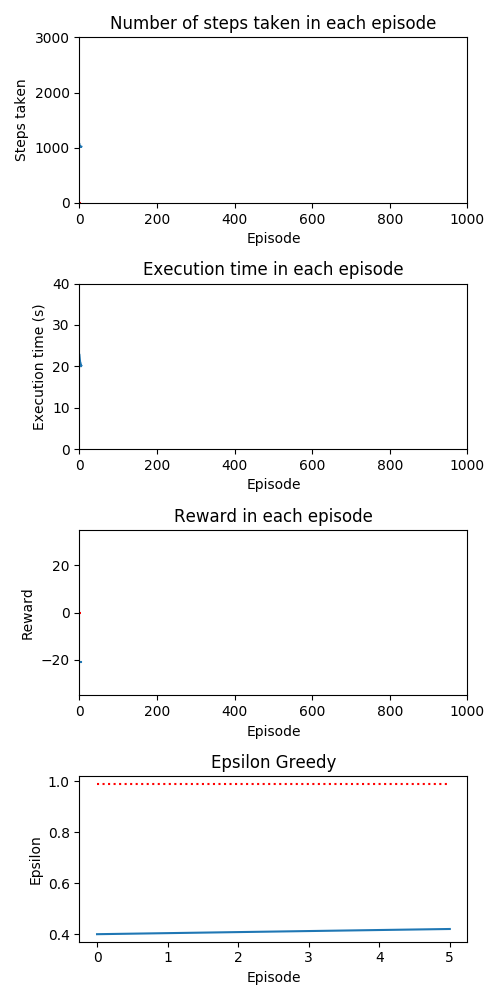
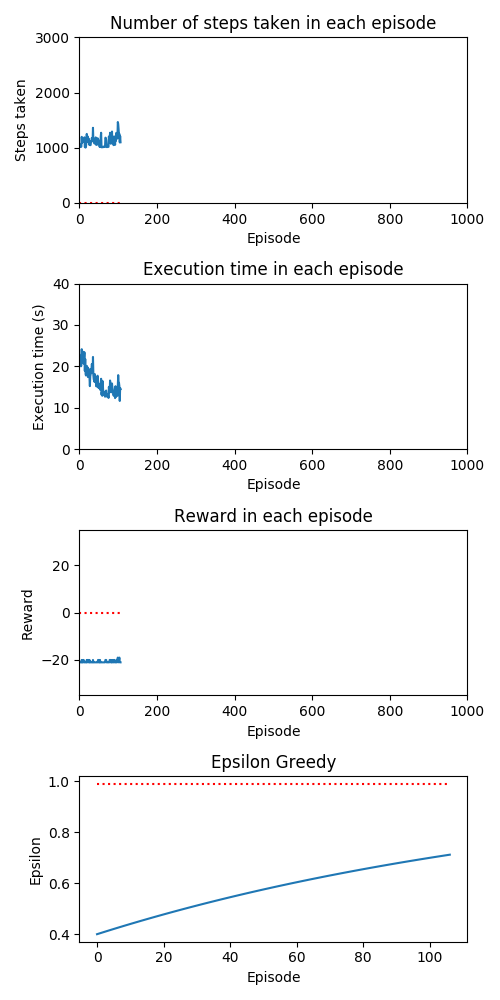
saving weights

diff --git a/run_main.py b/run_main.py
@@ -121,6 +121,19 @@ for episode in range(1000):
 
         step += 1
         episode_rewards += reward
+
+        # store model weights and parameters when episode rewards are above a certain amount 
+        # and after every number of episodes
+        #  === change reward threshold
+        if (episode_rewards >= -1) or (episode % 5 == 0):
+            # neuralNet.save(
+            #     neuralNet.model,
+            #     "./temp_Models/",
+            #     overwrite=True,
+            #     include_optimizer=True
+            # )
+            neuralNet.model.save_weights('./temp_Models/model.h5')
+
         if done:
             print('Completed Episode ' + str(episode))
             print('reward =', episode_rewards, 'steps =', step)

diff --git a/DQN/Brain.py b/DQN/Brain.py
@@ -27,7 +27,7 @@ class Learning():
 
     # the processed state is used in choosing action
     def choose_action(self, state, episode):
-        if random.random() < self.epsilon:
+        if random.random() > self.epsilon:
             action = random.randrange(self.action_space)
         else:
             action = np.argmax(self.network.model.predict(np.expand_dims(state, axis = 0)))
